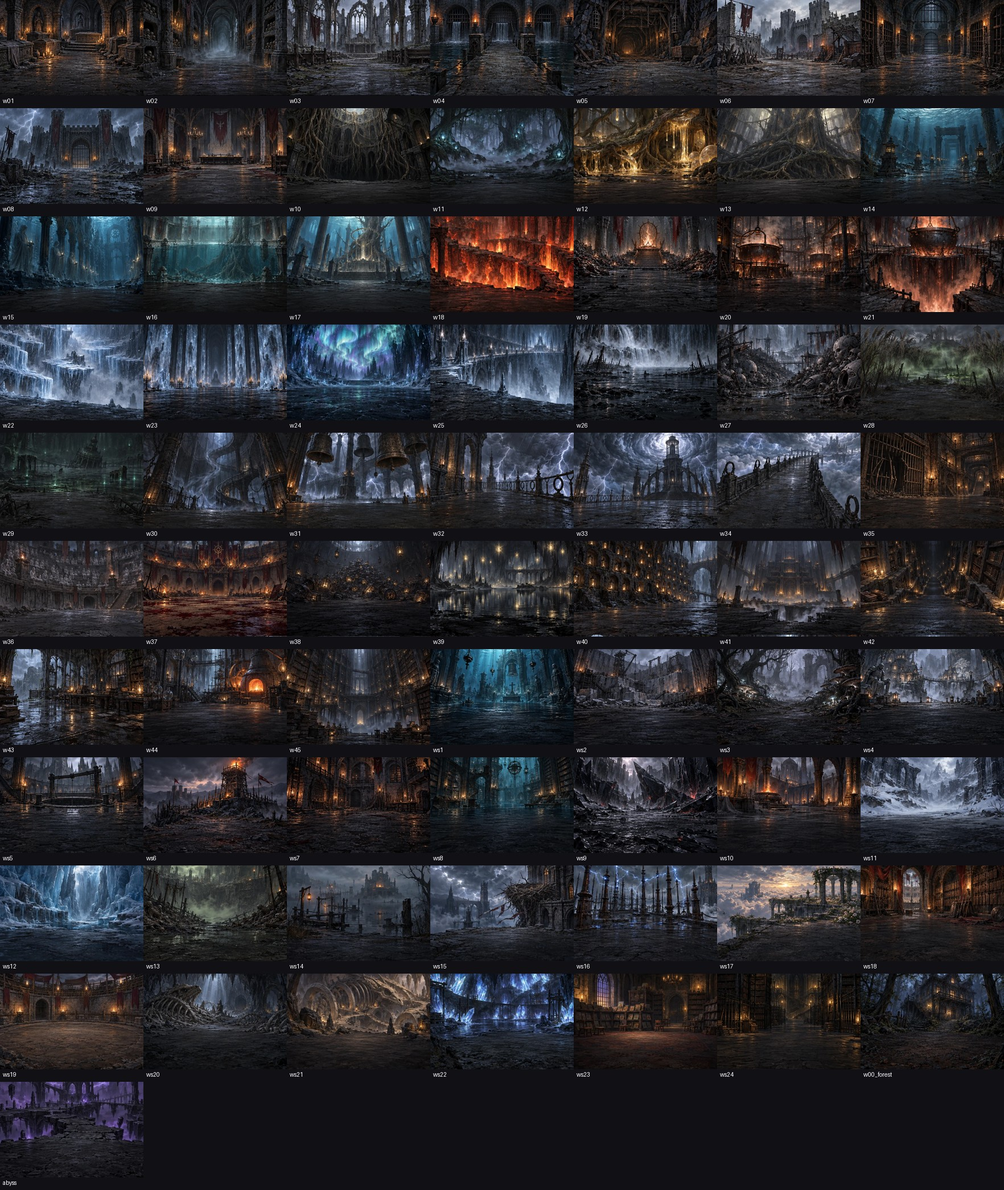
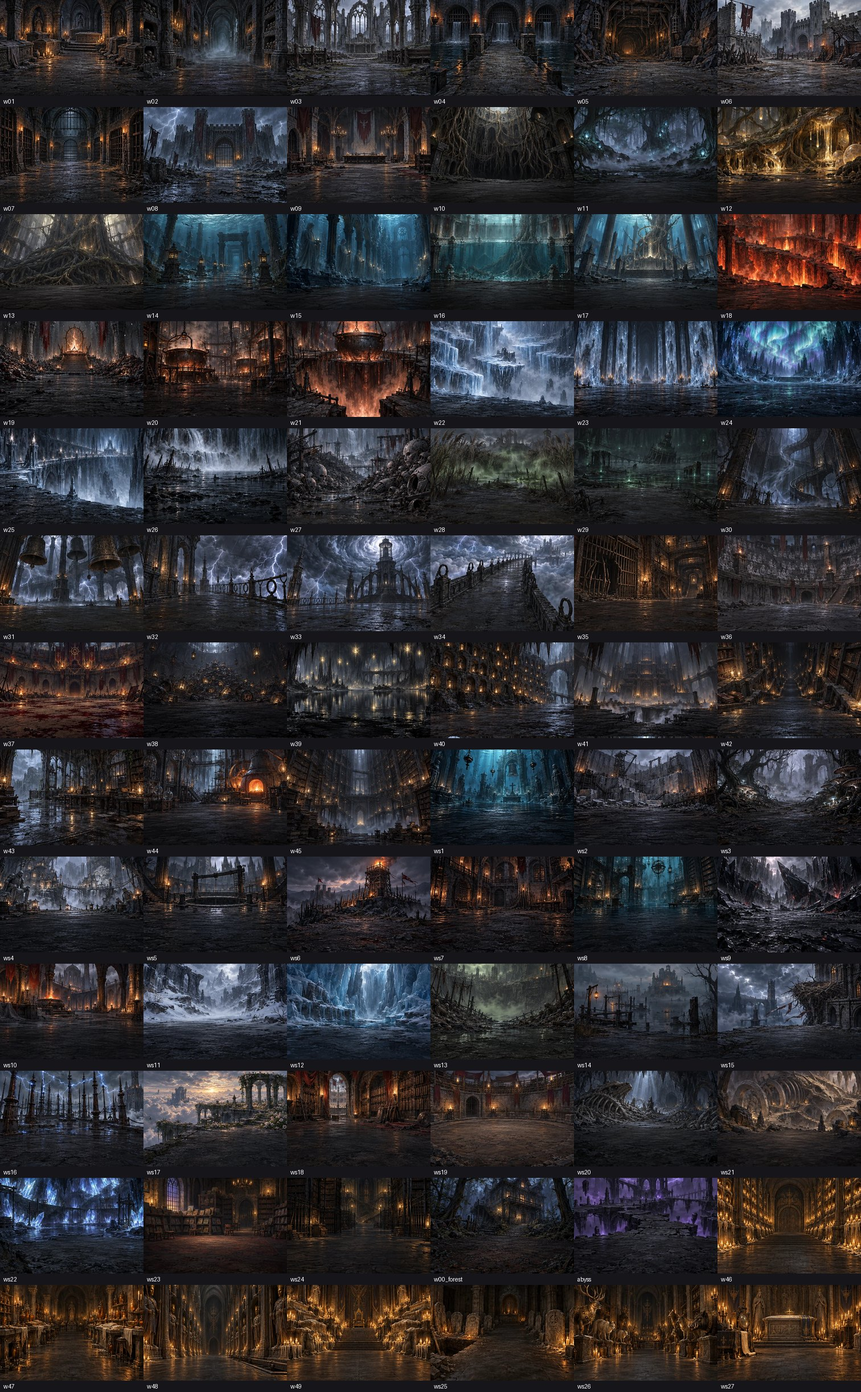
第十二章の全7迷宮にWebP戦闘背景を追加

diff --git a/docs/art/battle-backgrounds/review.html b/docs/art/battle-backgrounds/review.html
@@ -1,1 +1,1 @@
-<!doctype html><html lang="ja"><meta charset="utf-8"><title>戦闘背景・全迷宮</title><style>body{background:#101015;color:#ddd;font:16px sans-serif;margin:24px}main{display:grid;grid-template-columns:repeat(auto-fit,minmax(280px,1fr));gap:16px}figure{margin:0}img{width:100%;aspect-ratio:3/2;display:block}figcaption{padding:8px 0}h1{font-size:24px}</style><h1>戦闘背景・全70迷宮と無限迷宮</h1><p>画像は原画の明るさ。戦闘中は魔物・名札・HPを見やすくする暗幕と、主・強敵の周辺光を重ねる。</p><main><figure><img loading="lazy" src="../../../art/battle/w01.webp"><figcaption>w01 — 忘れられた地下墓地</figcaption></figure><figure><img loading="lazy" src="../../../art/battle/w02.webp"><figcaption>w02 — 亡骸の囁く回廊</figcaption></figure><figure><img loading="lazy" src="../../../art/battle/w03.webp"><figcaption>w03 — 朽ちた骸の修道院</figcaption></figure><figure><img loading="lazy" src="../../../art/battle/w04.webp"><figcaption>w04 — 黒水の取水口</figcaption></figure><figure><img loading="lazy" src="../../../art/battle/w05.webp"><figcaption>w05 — 鎖の垂れる坑口</figcaption></figure><figure><img loading="lazy" src="../../../art/battle/w06.webp"><figcaption>w06 — 亡兵の守る外郭</figcaption></figure><figure><img loading="lazy" src="../../../art/battle/w07.webp"><figcaption>w07 — 捨て砦の地下牢</figcaption></figure><figure><img loading="lazy" src="../../../art/battle/w08.webp"><figcaption>w08 — 雷雨の大手門</figcaption></figure><figure><img loading="lazy" src="../../../art/battle/w09.webp"><figcaption>w09 — 捨て砦の本丸</figcaption></figure><figure><img loading="lazy" src="../../../art/battle/w10.webp"><figcaption>w10 — 根の這う縦穴</figcaption></figure><figure><img loading="lazy" src="../../../art/battle/w11.webp"><figcaption>w11 — 地の底の霧森</figcaption></figure><figure><img loading="lazy" src="../../../art/battle/w12.webp"><figcaption>w12 — 樹液の苗床</figcaption></figure><figure><img loading="lazy" src="../../../art/battle/w13.webp"><figcaption>w13 — 魂喰らいの大樹</figcaption></figure><figure><img loading="lazy" src="../../../art/battle/w14.webp"><figcaption>w14 — 水底の参道</figcaption></figure><figure><img loading="lazy" src="../../../art/battle/w15.webp"><figcaption>w15 — 溺れた聖歌の回廊</figcaption></figure><figure><img loading="lazy" src="../../../art/battle/w16.webp"><figcaption>w16 — 洗礼の大水槽</figcaption></figure><figure><img loading="lazy" src="../../../art/battle/w17.webp"><figcaption>w17 — 沈める大神殿</figcaption></figure><figure><img loading="lazy" src="../../../art/battle/w18.webp"><figcaption>w18 — 火を噴く地割れ</figcaption></figure><figure><img loading="lazy" src="../../../art/battle/w19.webp"><figcaption>w19 — 灰の降る祭場</figcaption></figure><figure><img loading="lazy" src="../../../art/battle/w20.webp"><figcaption>w20 — 魂を煮る釜場</figcaption></figure><figure><img loading="lazy" src="../../../art/battle/w21.webp"><figcaption>w21 — 業火の大釜</figcaption></figure><figure><img loading="lazy" src="../../../art/battle/w22.webp"><figcaption>w22 — 奈落の氷棚</figcaption></figure><figure><img loading="lazy" src="../../../art/battle/w23.webp"><figcaption>w23 — 凍れる操霊師の間</figcaption></figure><figure><img loading="lazy" src="../../../art/battle/w24.webp"><figcaption>w24 — 極光の氷窟</figcaption></figure><figure><img loading="lazy" src="../../../art/battle/w25.webp"><figcaption>w25 — 凍てつく大回廊</figcaption></figure><figure><img loading="lazy" src="../../../art/battle/w26.webp"><figcaption>w26 — 腐れ水の岸</figcaption></figure><figure><img loading="lazy" src="../../../art/battle/w27.webp"><figcaption>w27 — 器の捨て場</figcaption></figure><figure><img loading="lazy" src="../../../art/battle/w28.webp"><figcaption>w28 — 毒霧の葦原</figcaption></figure><figure><img loading="lazy" src="../../../art/battle/w29.webp"><figcaption>w29 — よどみの底</figcaption></figure><figure><img loading="lazy" src="../../../art/battle/w30.webp"><figcaption>w30 — 風鳴りの螺旋</figcaption></figure><figure><img loading="lazy" src="../../../art/battle/w31.webp"><figcaption>w31 — 嵐を鳴らす鐘楼</figcaption></figure><figure><img loading="lazy" src="../../../art/battle/w32.webp"><figcaption>w32 — 雷の落ちる回廊</figcaption></figure><figure><img loading="lazy" src="../../../art/battle/w33.webp"><figcaption>w33 — 嵐の尖塔の頂</figcaption></figure><figure><img loading="lazy" src="../../../art/battle/w34.webp"><figcaption>w34 — 雲を渡る石橋</figcaption></figure><figure><img loading="lazy" src="../../../art/battle/w35.webp"><figcaption>w35 — 闘獣の檻</figcaption></figure><figure><img loading="lazy" src="../../../art/battle/w36.webp"><figcaption>w36 — 亡き観客の階段席</figcaption></figure><figure><img loading="lazy" src="../../../art/battle/w37.webp"><figcaption>w37 — 血の砂の闘技場</figcaption></figure><figure><img loading="lazy" src="../../../art/battle/w38.webp"><figcaption>w38 — 灯籠の吹き溜まり</figcaption></figure><figure><img loading="lazy" src="../../../art/battle/w39.webp"><figcaption>w39 — 黒い灯の地底湖</figcaption></figure><figure><img loading="lazy" src="../../../art/battle/w40.webp"><figcaption>w40 — 名を刻む石窟</figcaption></figure><figure><img loading="lazy" src="../../../art/battle/w41.webp"><figcaption>w41 — 底なしの大伽藍</figcaption></figure><figure><img loading="lazy" src="../../../art/battle/w42.webp"><figcaption>w42 — 書架の大階段</figcaption></figure><figure><img loading="lazy" src="../../../art/battle/w43.webp"><figcaption>w43 — 雨垂れの書庫</figcaption></figure><figure><img loading="lazy" src="../../../art/battle/w44.webp"><figcaption>w44 — 眠り灯の工房</figcaption></figure><figure><img loading="lazy" src="../../../art/battle/w45.webp"><figcaption>w45 — 大書庫</figcaption></figure><figure><img loading="lazy" src="../../../art/battle/ws1.webp"><figcaption>ws1 — 沈んだ礼拝堂</figcaption></figure><figure><img loading="lazy" src="../../../art/battle/ws2.webp"><figcaption>ws2 — 石眠りの石切り場</figcaption></figure><figure><img loading="lazy" src="../../../art/battle/ws3.webp"><figcaption>ws3 — 霧の迷い森</figcaption></figure><figure><img loading="lazy" src="../../../art/battle/ws4.webp"><figcaption>ws4 — 銀業の隠れ里</figcaption></figure><figure><img loading="lazy" src="../../../art/battle/ws5.webp"><figcaption>ws5 — 王都の古井戸</figcaption></figure><figure><img loading="lazy" src="../../../art/battle/ws6.webp"><figcaption>ws6 — 見捨てられた狼煙台</figcaption></figure><figure><img loading="lazy" src="../../../art/battle/ws7.webp"><figcaption>ws7 — 獄吏の詰所</figcaption></figure><figure><img loading="lazy" src="../../../art/battle/ws8.webp"><figcaption>ws8 — 沈んだ書庫</figcaption></figure><figure><img loading="lazy" src="../../../art/battle/ws9.webp"><figcaption>ws9 — 黒曜の切り場</figcaption></figure><figure><img loading="lazy" src="../../../art/battle/ws10.webp"><figcaption>ws10 — 火守りの僧院</figcaption></figure><figure><img loading="lazy" src="../../../art/battle/ws11.webp"><figcaption>ws11 — 白狼の吹き溜まり</figcaption></figure><figure><img loading="lazy" src="../../../art/battle/ws12.webp"><figcaption>ws12 — 氷河の裂け目</figcaption></figure><figure><img loading="lazy" src="../../../art/battle/ws13.webp"><figcaption>ws13 — 疫病塚の底</figcaption></figure><figure><img loading="lazy" src="../../../art/battle/ws14.webp"><figcaption>ws14 — 沈んだ渡し場</figcaption></figure><figure><img loading="lazy" src="../../../art/battle/ws15.webp"><figcaption>ws15 — 雷鳥の巣</figcaption></figure><figure><img loading="lazy" src="../../../art/battle/ws16.webp"><figcaption>ws16 — 錆びた避雷針の林</figcaption></figure><figure><img loading="lazy" src="../../../art/battle/ws17.webp"><figcaption>ws17 — 雲上の庭</figcaption></figure><figure><img loading="lazy" src="../../../art/battle/ws18.webp"><figcaption>ws18 — 勝者の控え所</figcaption></figure><figure><img loading="lazy" src="../../../art/battle/ws19.webp"><figcaption>ws19 — 決闘の小円形場</figcaption></figure><figure><img loading="lazy" src="../../../art/battle/ws20.webp"><figcaption>ws20 — 大空洞の主の寝床</figcaption></figure><figure><img loading="lazy" src="../../../art/battle/ws21.webp"><figcaption>ws21 — 化石竜の墓所</figcaption></figure><figure><img loading="lazy" src="../../../art/battle/ws22.webp"><figcaption>ws22 — 水晶の鉱脈</figcaption></figure><figure><img loading="lazy" src="../../../art/battle/ws23.webp"><figcaption>ws23 — 絵本の閲覧室</figcaption></figure><figure><img loading="lazy" src="../../../art/battle/ws24.webp"><figcaption>ws24 — 閉架の書庫</figcaption></figure><figure><img loading="lazy" src="../../../art/battle/w00_forest.webp"><figcaption>w00_forest — 近くの森の古屋</figcaption></figure><figure><img loading="lazy" src="../../../art/battle/abyss.webp"><figcaption>abyss — 無限迷宮</figcaption></figure></main>
+<!doctype html><html lang="ja"><meta charset="utf-8"><title>戦闘背景・全迷宮</title><style>body{background:#101015;color:#ddd;font:16px sans-serif;margin:24px}main{display:grid;grid-template-columns:repeat(auto-fit,minmax(280px,1fr));gap:16px}figure{margin:0}img{width:100%;aspect-ratio:3/2;display:block}figcaption{padding:8px 0}h1{font-size:24px}</style><h1>戦闘背景・全77迷宮と無限迷宮</h1><p>画像は原画の明るさ。戦闘中は魔物・名札・HPを見やすくする暗幕と、主・強敵の周辺光を重ねる。</p><main><figure><img loading="lazy" src="../../../art/battle/w01.webp"><figcaption>w01 — 忘れられた地下墓地</figcaption></figure><figure><img loading="lazy" src="../../../art/battle/w02.webp"><figcaption>w02 — 亡骸の囁く回廊</figcaption></figure><figure><img loading="lazy" src="../../../art/battle/w03.webp"><figcaption>w03 — 朽ちた骸の修道院</figcaption></figure><figure><img loading="lazy" src="../../../art/battle/w04.webp"><figcaption>w04 — 黒水の取水口</figcaption></figure><figure><img loading="lazy" src="../../../art/battle/w05.webp"><figcaption>w05 — 鎖の垂れる坑口</figcaption></figure><figure><img loading="lazy" src="../../../art/battle/w06.webp"><figcaption>w06 — 亡兵の守る外郭</figcaption></figure><figure><img loading="lazy" src="../../../art/battle/w07.webp"><figcaption>w07 — 捨て砦の地下牢</figcaption></figure><figure><img loading="lazy" src="../../../art/battle/w08.webp"><figcaption>w08 — 雷雨の大手門</figcaption></figure><figure><img loading="lazy" src="../../../art/battle/w09.webp"><figcaption>w09 — 捨て砦の本丸</figcaption></figure><figure><img loading="lazy" src="../../../art/battle/w10.webp"><figcaption>w10 — 根の這う縦穴</figcaption></figure><figure><img loading="lazy" src="../../../art/battle/w11.webp"><figcaption>w11 — 地の底の霧森</figcaption></figure><figure><img loading="lazy" src="../../../art/battle/w12.webp"><figcaption>w12 — 樹液の苗床</figcaption></figure><figure><img loading="lazy" src="../../../art/battle/w13.webp"><figcaption>w13 — 魂喰らいの大樹</figcaption></figure><figure><img loading="lazy" src="../../../art/battle/w14.webp"><figcaption>w14 — 水底の参道</figcaption></figure><figure><img loading="lazy" src="../../../art/battle/w15.webp"><figcaption>w15 — 溺れた聖歌の回廊</figcaption></figure><figure><img loading="lazy" src="../../../art/battle/w16.webp"><figcaption>w16 — 洗礼の大水槽</figcaption></figure><figure><img loading="lazy" src="../../../art/battle/w17.webp"><figcaption>w17 — 沈める大神殿</figcaption></figure><figure><img loading="lazy" src="../../../art/battle/w18.webp"><figcaption>w18 — 火を噴く地割れ</figcaption></figure><figure><img loading="lazy" src="../../../art/battle/w19.webp"><figcaption>w19 — 灰の降る祭場</figcaption></figure><figure><img loading="lazy" src="../../../art/battle/w20.webp"><figcaption>w20 — 魂を煮る釜場</figcaption></figure><figure><img loading="lazy" src="../../../art/battle/w21.webp"><figcaption>w21 — 業火の大釜</figcaption></figure><figure><img loading="lazy" src="../../../art/battle/w22.webp"><figcaption>w22 — 奈落の氷棚</figcaption></figure><figure><img loading="lazy" src="../../../art/battle/w23.webp"><figcaption>w23 — 凍れる操霊師の間</figcaption></figure><figure><img loading="lazy" src="../../../art/battle/w24.webp"><figcaption>w24 — 極光の氷窟</figcaption></figure><figure><img loading="lazy" src="../../../art/battle/w25.webp"><figcaption>w25 — 凍てつく大回廊</figcaption></figure><figure><img loading="lazy" src="../../../art/battle/w26.webp"><figcaption>w26 — 腐れ水の岸</figcaption></figure><figure><img loading="lazy" src="../../../art/battle/w27.webp"><figcaption>w27 — 器の捨て場</figcaption></figure><figure><img loading="lazy" src="../../../art/battle/w28.webp"><figcaption>w28 — 毒霧の葦原</figcaption></figure><figure><img loading="lazy" src="../../../art/battle/w29.webp"><figcaption>w29 — よどみの底</figcaption></figure><figure><img loading="lazy" src="../../../art/battle/w30.webp"><figcaption>w30 — 風鳴りの螺旋</figcaption></figure><figure><img loading="lazy" src="../../../art/battle/w31.webp"><figcaption>w31 — 嵐を鳴らす鐘楼</figcaption></figure><figure><img loading="lazy" src="../../../art/battle/w32.webp"><figcaption>w32 — 雷の落ちる回廊</figcaption></figure><figure><img loading="lazy" src="../../../art/battle/w33.webp"><figcaption>w33 — 嵐の尖塔の頂</figcaption></figure><figure><img loading="lazy" src="../../../art/battle/w34.webp"><figcaption>w34 — 雲を渡る石橋</figcaption></figure><figure><img loading="lazy" src="../../../art/battle/w35.webp"><figcaption>w35 — 闘獣の檻</figcaption></figure><figure><img loading="lazy" src="../../../art/battle/w36.webp"><figcaption>w36 — 亡き観客の階段席</figcaption></figure><figure><img loading="lazy" src="../../../art/battle/w37.webp"><figcaption>w37 — 血の砂の闘技場</figcaption></figure><figure><img loading="lazy" src="../../../art/battle/w38.webp"><figcaption>w38 — 灯籠の吹き溜まり</figcaption></figure><figure><img loading="lazy" src="../../../art/battle/w39.webp"><figcaption>w39 — 黒い灯の地底湖</figcaption></figure><figure><img loading="lazy" src="../../../art/battle/w40.webp"><figcaption>w40 — 名を刻む石窟</figcaption></figure><figure><img loading="lazy" src="../../../art/battle/w41.webp"><figcaption>w41 — 底なしの大伽藍</figcaption></figure><figure><img loading="lazy" src="../../../art/battle/w42.webp"><figcaption>w42 — 書架の大階段</figcaption></figure><figure><img loading="lazy" src="../../../art/battle/w43.webp"><figcaption>w43 — 雨垂れの書庫</figcaption></figure><figure><img loading="lazy" src="../../../art/battle/w44.webp"><figcaption>w44 — 眠り灯の工房</figcaption></figure><figure><img loading="lazy" src="../../../art/battle/w45.webp"><figcaption>w45 — 大書庫</figcaption></figure><figure><img loading="lazy" src="../../../art/battle/ws1.webp"><figcaption>ws1 — 沈んだ礼拝堂</figcaption></figure><figure><img loading="lazy" src="../../../art/battle/ws2.webp"><figcaption>ws2 — 石眠りの石切り場</figcaption></figure><figure><img loading="lazy" src="../../../art/battle/ws3.webp"><figcaption>ws3 — 霧の迷い森</figcaption></figure><figure><img loading="lazy" src="../../../art/battle/ws4.webp"><figcaption>ws4 — 銀業の隠れ里</figcaption></figure><figure><img loading="lazy" src="../../../art/battle/ws5.webp"><figcaption>ws5 — 王都の古井戸</figcaption></figure><figure><img loading="lazy" src="../../../art/battle/ws6.webp"><figcaption>ws6 — 見捨てられた狼煙台</figcaption></figure><figure><img loading="lazy" src="../../../art/battle/ws7.webp"><figcaption>ws7 — 獄吏の詰所</figcaption></figure><figure><img loading="lazy" src="../../../art/battle/ws8.webp"><figcaption>ws8 — 沈んだ書庫</figcaption></figure><figure><img loading="lazy" src="../../../art/battle/ws9.webp"><figcaption>ws9 — 黒曜の切り場</figcaption></figure><figure><img loading="lazy" src="../../../art/battle/ws10.webp"><figcaption>ws10 — 火守りの僧院</figcaption></figure><figure><img loading="lazy" src="../../../art/battle/ws11.webp"><figcaption>ws11 — 白狼の吹き溜まり</figcaption></figure><figure><img loading="lazy" src="../../../art/battle/ws12.webp"><figcaption>ws12 — 氷河の裂け目</figcaption></figure><figure><img loading="lazy" src="../../../art/battle/ws13.webp"><figcaption>ws13 — 疫病塚の底</figcaption></figure><figure><img loading="lazy" src="../../../art/battle/ws14.webp"><figcaption>ws14 — 沈んだ渡し場</figcaption></figure><figure><img loading="lazy" src="../../../art/battle/ws15.webp"><figcaption>ws15 — 雷鳥の巣</figcaption></figure><figure><img loading="lazy" src="../../../art/battle/ws16.webp"><figcaption>ws16 — 錆びた避雷針の林</figcaption></figure><figure><img loading="lazy" src="../../../art/battle/ws17.webp"><figcaption>ws17 — 雲上の庭</figcaption></figure><figure><img loading="lazy" src="../../../art/battle/ws18.webp"><figcaption>ws18 — 勝者の控え所</figcaption></figure><figure><img loading="lazy" src="../../../art/battle/ws19.webp"><figcaption>ws19 — 決闘の小円形場</figcaption></figure><figure><img loading="lazy" src="../../../art/battle/ws20.webp"><figcaption>ws20 — 大空洞の主の寝床</figcaption></figure><figure><img loading="lazy" src="../../../art/battle/ws21.webp"><figcaption>ws21 — 化石竜の墓所</figcaption></figure><figure><img loading="lazy" src="../../../art/battle/ws22.webp"><figcaption>ws22 — 水晶の鉱脈</figcaption></figure><figure><img loading="lazy" src="../../../art/battle/ws23.webp"><figcaption>ws23 — 絵本の閲覧室</figcaption></figure><figure><img loading="lazy" src="../../../art/battle/ws24.webp"><figcaption>ws24 — 閉架の書庫</figcaption></figure><figure><img loading="lazy" src="../../../art/battle/w00_forest.webp"><figcaption>w00_forest — 近くの森の古屋</figcaption></figure><figure><img loading="lazy" src="../../../art/battle/abyss.webp"><figcaption>abyss — 無限迷宮</figcaption></figure><figure><img loading="lazy" src="../../../art/battle/w46.webp"><figcaption>w46 — 弔い灯の参道</figcaption></figure><figure><img loading="lazy" src="../../../art/battle/w47.webp"><figcaption>w47 — 香油の仕立て場</figcaption></figure><figure><img loading="lazy" src="../../../art/battle/w48.webp"><figcaption>w48 — 眠らずの近衛廊</figcaption></figure><figure><img loading="lazy" src="../../../art/battle/w49.webp"><figcaption>w49 — 終わらずの玉座</figcaption></figure><figure><img loading="lazy" src="../../../art/battle/ws25.webp"><figcaption>ws25 — 名の無い墓所</figcaption></figure><figure><img loading="lazy" src="../../../art/battle/ws26.webp"><figcaption>ws26 — 剥製の大広間</figcaption></figure><figure><img loading="lazy" src="../../../art/battle/ws27.webp"><figcaption>ws27 — 王子の墓所</figcaption></figure></main>

diff --git a/src/battlebackgrounds.js b/src/battlebackgrounds.js
@@ -69,6 +69,13 @@ export const BATTLE_BACKGROUNDS = Object.freeze({
   "ws22": "art/battle/ws22.webp",
   "ws23": "art/battle/ws23.webp",
   "ws24": "art/battle/ws24.webp",
+  "w46": "art/battle/w46.webp",
+  "w47": "art/battle/w47.webp",
+  "w48": "art/battle/w48.webp",
+  "w49": "art/battle/w49.webp",
+  "ws25": "art/battle/ws25.webp",
+  "ws26": "art/battle/ws26.webp",
+  "ws27": "art/battle/ws27.webp",
   "w00_forest": "art/battle/w00_forest.webp",
   "abyss": "art/battle/abyss.webp",
 });

diff --git a/sw.js b/sw.js
@@ -939,6 +939,13 @@ const ASSETS = [
   "./art/battle/ws22.webp",
   "./art/battle/ws23.webp",
   "./art/battle/ws24.webp",
+  "./art/battle/w46.webp",
+  "./art/battle/w47.webp",
+  "./art/battle/w48.webp",
+  "./art/battle/w49.webp",
+  "./art/battle/ws25.webp",
+  "./art/battle/ws26.webp",
+  "./art/battle/ws27.webp",
   "./art/battle/w00_forest.webp",
   "./art/battle/abyss.webp",
 

diff --git a/tools/battle-backgrounds/check.py b/tools/battle-backgrounds/check.py
@@ -32,7 +32,7 @@ with sync_playwright() as p:
         for(let i=0;i<100;i++) {await new Promise(r=>setTimeout(r,10));if(draw(g,480,320,{dungeonId:id})){ok=true;break;}}
         if(!ok) failures.push('draw:'+id);
       }
-      const examples=[['w01',480,320,{}],['w24',360,480,{boss:true}],['ws17',480,320,{elite:true}],['w45',360,480,{}]];
+      const examples=[['w46',480,320,{}],['w47',480,320,{}],['w48',360,480,{elite:true}],['w49',360,480,{boss:true}],['ws25',480,320,{}],['ws26',480,320,{}],['ws27',480,320,{}]];
       const box=document.createElement('div');box.style='display:flex;gap:12px;align-items:flex-start;flex-wrap:wrap';document.body.replaceChildren(box);
       for(const [id,w,h,opts] of examples){const cv=document.createElement('canvas');cv.width=w;cv.height=h;box.append(cv);const ctx=cv.getContext('2d');draw(ctx,w,h,{dungeonId:id,...opts});await new Promise(r=>setTimeout(r,100));drawBattleBackdrop(ctx,w,h,1,0,{dungeonId:id,...opts});}
       return {count:Object.keys(BATTLE_BACKGROUNDS).length,world:WORLD.length,missing,failures,sizes};
@@ -45,21 +45,24 @@ with sync_playwright() as p:
     result['fallback']=blocked.evaluate('''async()=>{const {drawBattleBackdrop}=await import('/src/backdrops.js');const c=document.createElement('canvas');c.width=480;c.height=320;const g=c.getContext('2d');drawBattleBackdrop(g,480,320,1,0,{dungeonId:'w01'});await new Promise(r=>setTimeout(r,100));drawBattleBackdrop(g,480,320,1,0,{dungeonId:'w01'});return g.getImageData(0,0,480,320).data.some((v,i)=>i%4!==3&&v>0);}''')
     result['pageErrors']=errors
     result['battles']=[]
-    for id,width,height in [('w01',390,844),('w12',1280,900),('w24',390,844),('w45',390,844)]:
-        battle=browser.new_page(viewport={'width':width,'height':height},service_workers='block')
+    battle_context=browser.new_context(service_workers='block')
+    # 大量の原画を初回取得する検査環境では起動監視だけ待ち時間を延ばす。
+    battle_context.add_init_script("const originalTimeout=window.setTimeout;window.setTimeout=(fn,ms,...args)=>originalTimeout(fn,ms===5000 && String(fn).includes('起動がタイムアウト') ? 60000 : ms,...args);")
+    for id,width,height in [('w46',390,844),('w47',1280,900),('w48',390,844),('w49',390,844),('ws25',390,844),('ws26',1280,900),('ws27',390,844)]:
+        battle=battle_context.new_page()
+        battle.set_viewport_size({'width':width,'height':height})
         battle.add_init_script('performance.setResourceTimingBufferSize(10000)')
         battle_errors=[]
         battle.on('pageerror',lambda e:battle_errors.append(str(e)))
-        def expose(route):
-            response=route.fetch()
-            route.fulfill(response=response,body=response.text()+'\nwindow.backgroundReview={G,activeCfg,spawnCardEnemies,startBattle};')
-        battle.route('**/src/game.js*',expose)
         battle.goto(f'http://127.0.0.1:8765/?testDungeon={id}&testFloor=1',wait_until='domcontentloaded')
-        battle.wait_for_function("window.backgroundReview && backgroundReview.G.state === 'board'")
-        battle.evaluate("""()=>{const t=backgroundReview;t.G.prompt=false;t.G.anim=false;t.G.heroAnim=null;t.G.flipAnim=null;t.G.walking=false;const key=t.activeCfg().bands[0][0];t.startBattle(t.spawnCardEnemies(key,1,1,{min:1}),null);}""")
-        battle.wait_for_timeout(3000)
-        status=battle.evaluate("""()=>({state:backgroundReview.G.state,id:backgroundReview.activeCfg().id,loaded:performance.getEntriesByType('resource').filter(r=>r.name.includes('/art/battle/')).map(r=>r.name.split('/').pop())})""")
+        battle.wait_for_function("window.__game && __game.G && __game.G.state === 'board'")
+        battle.evaluate("""async()=>{(await import('/src/ui/kit.js')).sheet.closeAll();const t=__game;t.G.autoCombat=false;t.G.autoMove=false;t.G.prompt=false;t.G.anim=false;t.G.heroAnim=null;t.G.flipAnim=null;t.G.walking=false;const key=t.activeCfg().bands[0][0];t.startBattle(t.spawnCardEnemies(key,1,1,{min:1}),null);}""")
+        battle.wait_for_function("id => performance.getEntriesByType('resource').some(r => r.name.endsWith('/art/battle/'+id+'.webp'))", arg=id, timeout=20000)
+        battle.wait_for_timeout(1000)
+        status=battle.evaluate("""()=>({state:__game.G.state,id:__game.activeCfg().id,loaded:performance.getEntriesByType('resource').filter(r=>r.name.includes('/art/battle/')).map(r=>r.name.split('/').pop())})""")
+        assert battle.get_by_text('⚠ 読み込みに失敗しました', exact=True).count()==0
         battle.screenshot(path=str(out/f'battle-{id}.png'),full_page=True)
+        print(f'{id}: 実戦表示OK', flush=True)
         assert status['state']=='combat' and status['id']==id and id+'.webp' in status['loaded'] and not battle_errors,(status,battle_errors)
         result['battles'].append(status)
         battle.close()

diff --git a/CLAUDE.md b/CLAUDE.md
@@ -437,7 +437,7 @@ The UI was rebuilt into packages under `src/ui/` (plain ES modules; **they never
 
 - 職業の魂の入手ポップアップは `src/ui/soulart.js` の透過アニメーションWebP (`art/souls/acquisition.webp`) を使い、職業の `glow` 色に染める。動きを減らす設定では静止WebP、読み込み失敗時は従来の人魂アイコン。トースト・戦果の小さな魂は従来どおり。心得 `t_soul_wisp`。
 
-- 戦闘背景は `src/battlebackgrounds.js` の迷宮ID対応で `art/battle/<id>.webp` を読み込む (全70迷宮 + 無限迷宮)。中央を暗くし、主・強敵は赤い周辺光を重ねる。読み込み中・失敗時は `backdrops.js` の既存情景を使う。出撃画面の `drawDungeonVista` と設定「漆黒」は従来どおり。心得 `t_battle_scenery`。
+- 戦闘背景は `src/battlebackgrounds.js` の迷宮ID対応で `art/battle/<id>.webp` を読み込む (全77迷宮 + 無限迷宮)。中央を暗くし、主・強敵は赤い周辺光を重ねる。読み込み中・失敗時は `backdrops.js` の既存情景を使う。出撃画面の `drawDungeonVista` と設定「漆黒」は従来どおり。心得 `t_battle_scenery`。
 
 - 異変「飢えた狩場」は戦闘開始時にも最低3体を保証する (`startBattleMeasured`)。主・強敵・銀業・ミミック・出来事にも、その階の通常の魔物を不足分だけ添える。一騎打ちの掟 (`trait.duel`) がある迷宮では抽選候補から除外し、以前の候補・出撃・保存済みの異変の適用時にも対象条件を確かめる (`mutatorForDungeon`)。元の特殊敵は増やさず、強さ・戦果の異変倍率は従来どおり通常敵だけに効く。記憶への再戦は対象外。迷宮の掟の `packMin` は従来どおり通常の群れだけ。心得 `t_mut`。
 - ユーザーがPRのマージを指示した後は `python3 tools/release/merge.py <PR番号> --head <確認済みの40桁SHA> --merge` で検査から公開確認までまとめて実行する (`docs/merge-and-publish.md`)。公開の成否まで報告し、同じ許可を聞き直さない。指示前にはマージしない。

diff --git a/docs/art/chapter12-art-list.md b/docs/art/chapter12-art-list.md
@@ -85,20 +85,20 @@
 | `el_soulflayer` | 魂剥ぎの主 | 強敵 | 長い指で魂の殻を剥ぎ、別の亡骸へ移す術者たちの長 | w47・w49・ws25・ws27 |
 | `bs_cryptking` | 王家の廟の主 | 主 (w49) | 千年玉座に座る最初の王。ろうと香油と金に覆われ、王冠が額に溶けつき、手は玉座の飾りと見分けがつかない。恐ろしいより痛ましい | w49 |
 
-## 4. 戦闘背景 (7枚) ― 優先度 中
+## 4. 戦闘背景 (7枚) ― 完了
 
 - 置き場所: `art/battle/<迷宮ID>.webp`、`src/battlebackgrounds.js` に1行ずつ登録、`sw.js` の ASSETS に足す。
-- いまの仮の絵: 層の情景を描く `backdrops.js` の戦闘背景 (第14層の専用の絵は無い)。
+- 専用WebPを全7迷宮に登録済み。原画: `battle-backgrounds/atlas-09.png`、確認: `battle-backgrounds/chapter12-backgrounds.jpg`。
 
 | 迷宮 | 描く中身 |
 |---|---|
-| `w46` | ろうそくの並ぶ参道。熱いしずくの垂れた床 |
-| `w47` | 石の台と香油の壺の作業場。香油のしみ |
-| `w48` | 天井の高い回廊、両側の近衛の列、棺の落とし口 |
-| `w49` | 段をなす棺と玉座の間 (主の戦いもここ) |
-| `ws25` | 名の無い墓碑の並ぶ暗い墓所、掘りかけの墓穴 |
-| `ws26` | 剥製の獣の並ぶ大広間 |
-| `ws27` | 王子の墓所 (小さな王冠・従者の像) |
+| `w46` | ろうそくの並ぶ参道。熱いしずくの垂れた床 (済) |
+| `w47` | 石の台と香油の壺の作業場。香油のしみ (済) |
+| `w48` | 天井の高い回廊、両側の近衛の列、棺の落とし口 (済) |
+| `w49` | 段をなす棺と玉座の間 (主の戦いもここ) (済) |
+| `ws25` | 名の無い墓碑の並ぶ暗い墓所、掘りかけの墓穴 (済) |
+| `ws26` | 剥製の獣の並ぶ大広間 (済) |
+| `ws27` | 王子の墓所 (小さな王冠・従者の像) (済) |
 
 ## 5. 探索の盤面の床・蓋・壁 (7迷宮) ― 優先度 低
 

diff --git a/docs/art/battle-backgrounds/README.md b/docs/art/battle-backgrounds/README.md
@@ -1,8 +1,8 @@
 # 迷宮ごとの戦闘背景
 
-全70迷宮と無限迷宮の71点。画像生成で描いた9分割原画を8枚収録し、境界から4px内側を切り出して504×336・品質88のWebPに変換。最後の原画の9枠目は予備で出荷しない。
+全77迷宮と無限迷宮の78点。画像生成で描いた9分割原画を9枚収録し、境界から4px内側を切り出して504×336・品質88のWebPに変換。原画8の9枠目と原画9の8〜9枠目は予備で出荷しない。
 
-- 原画: `atlas-01.png`〜`atlas-08.png` (各1536×1024)
+- 原画: `atlas-01.png`〜`atlas-09.png` (各1536×1024)
 - 対応: `manifest.json` の atlas・tile (左上から右へ1〜9)
 - 出荷: `art/battle/<迷宮ID>.webp`
 - 一覧: `review.html` / `all-backgrounds.jpg`
@@ -15,3 +15,7 @@
 再生成: `python3 tools/battle-backgrounds/build.py` (Pillow)。ブラウザ検査: `python3 tools/battle-backgrounds/check.py` (Playwright・Chromium、ポート8765)。
 
 実戦画面: 地下墓地 (`battle-w01.png`)・苗床 (`battle-w12.png`、横長)・極光の氷窟 (`battle-w24.png`)・大書庫 (`battle-w45.png`)。テストプレイで戦闘状態に入り、対応WebPの取得とブラウザ例外なしを確認。
+
+第十二章「王家の廟」: `atlas-09.png` の1〜7枠を `w46`〜`w49`・`ws25`〜`ws27` に割り当てる。原画は琥珀のろうそくの光・ろう・香油・金の飾りを共通に、中央の戦場を空けた。確認用一覧は `chapter12-backgrounds.jpg`。追加の心得は無し (既存 `t_battle_scenery` の説明どおり)。
+
+第十二章の実戦検査: `battle-w46.png`〜`battle-w49.png`・`battle-ws25.png`〜`battle-ws27.png`。縦長・横長の戦闘で専用背景の取得とブラウザ例外なしを確認する。
